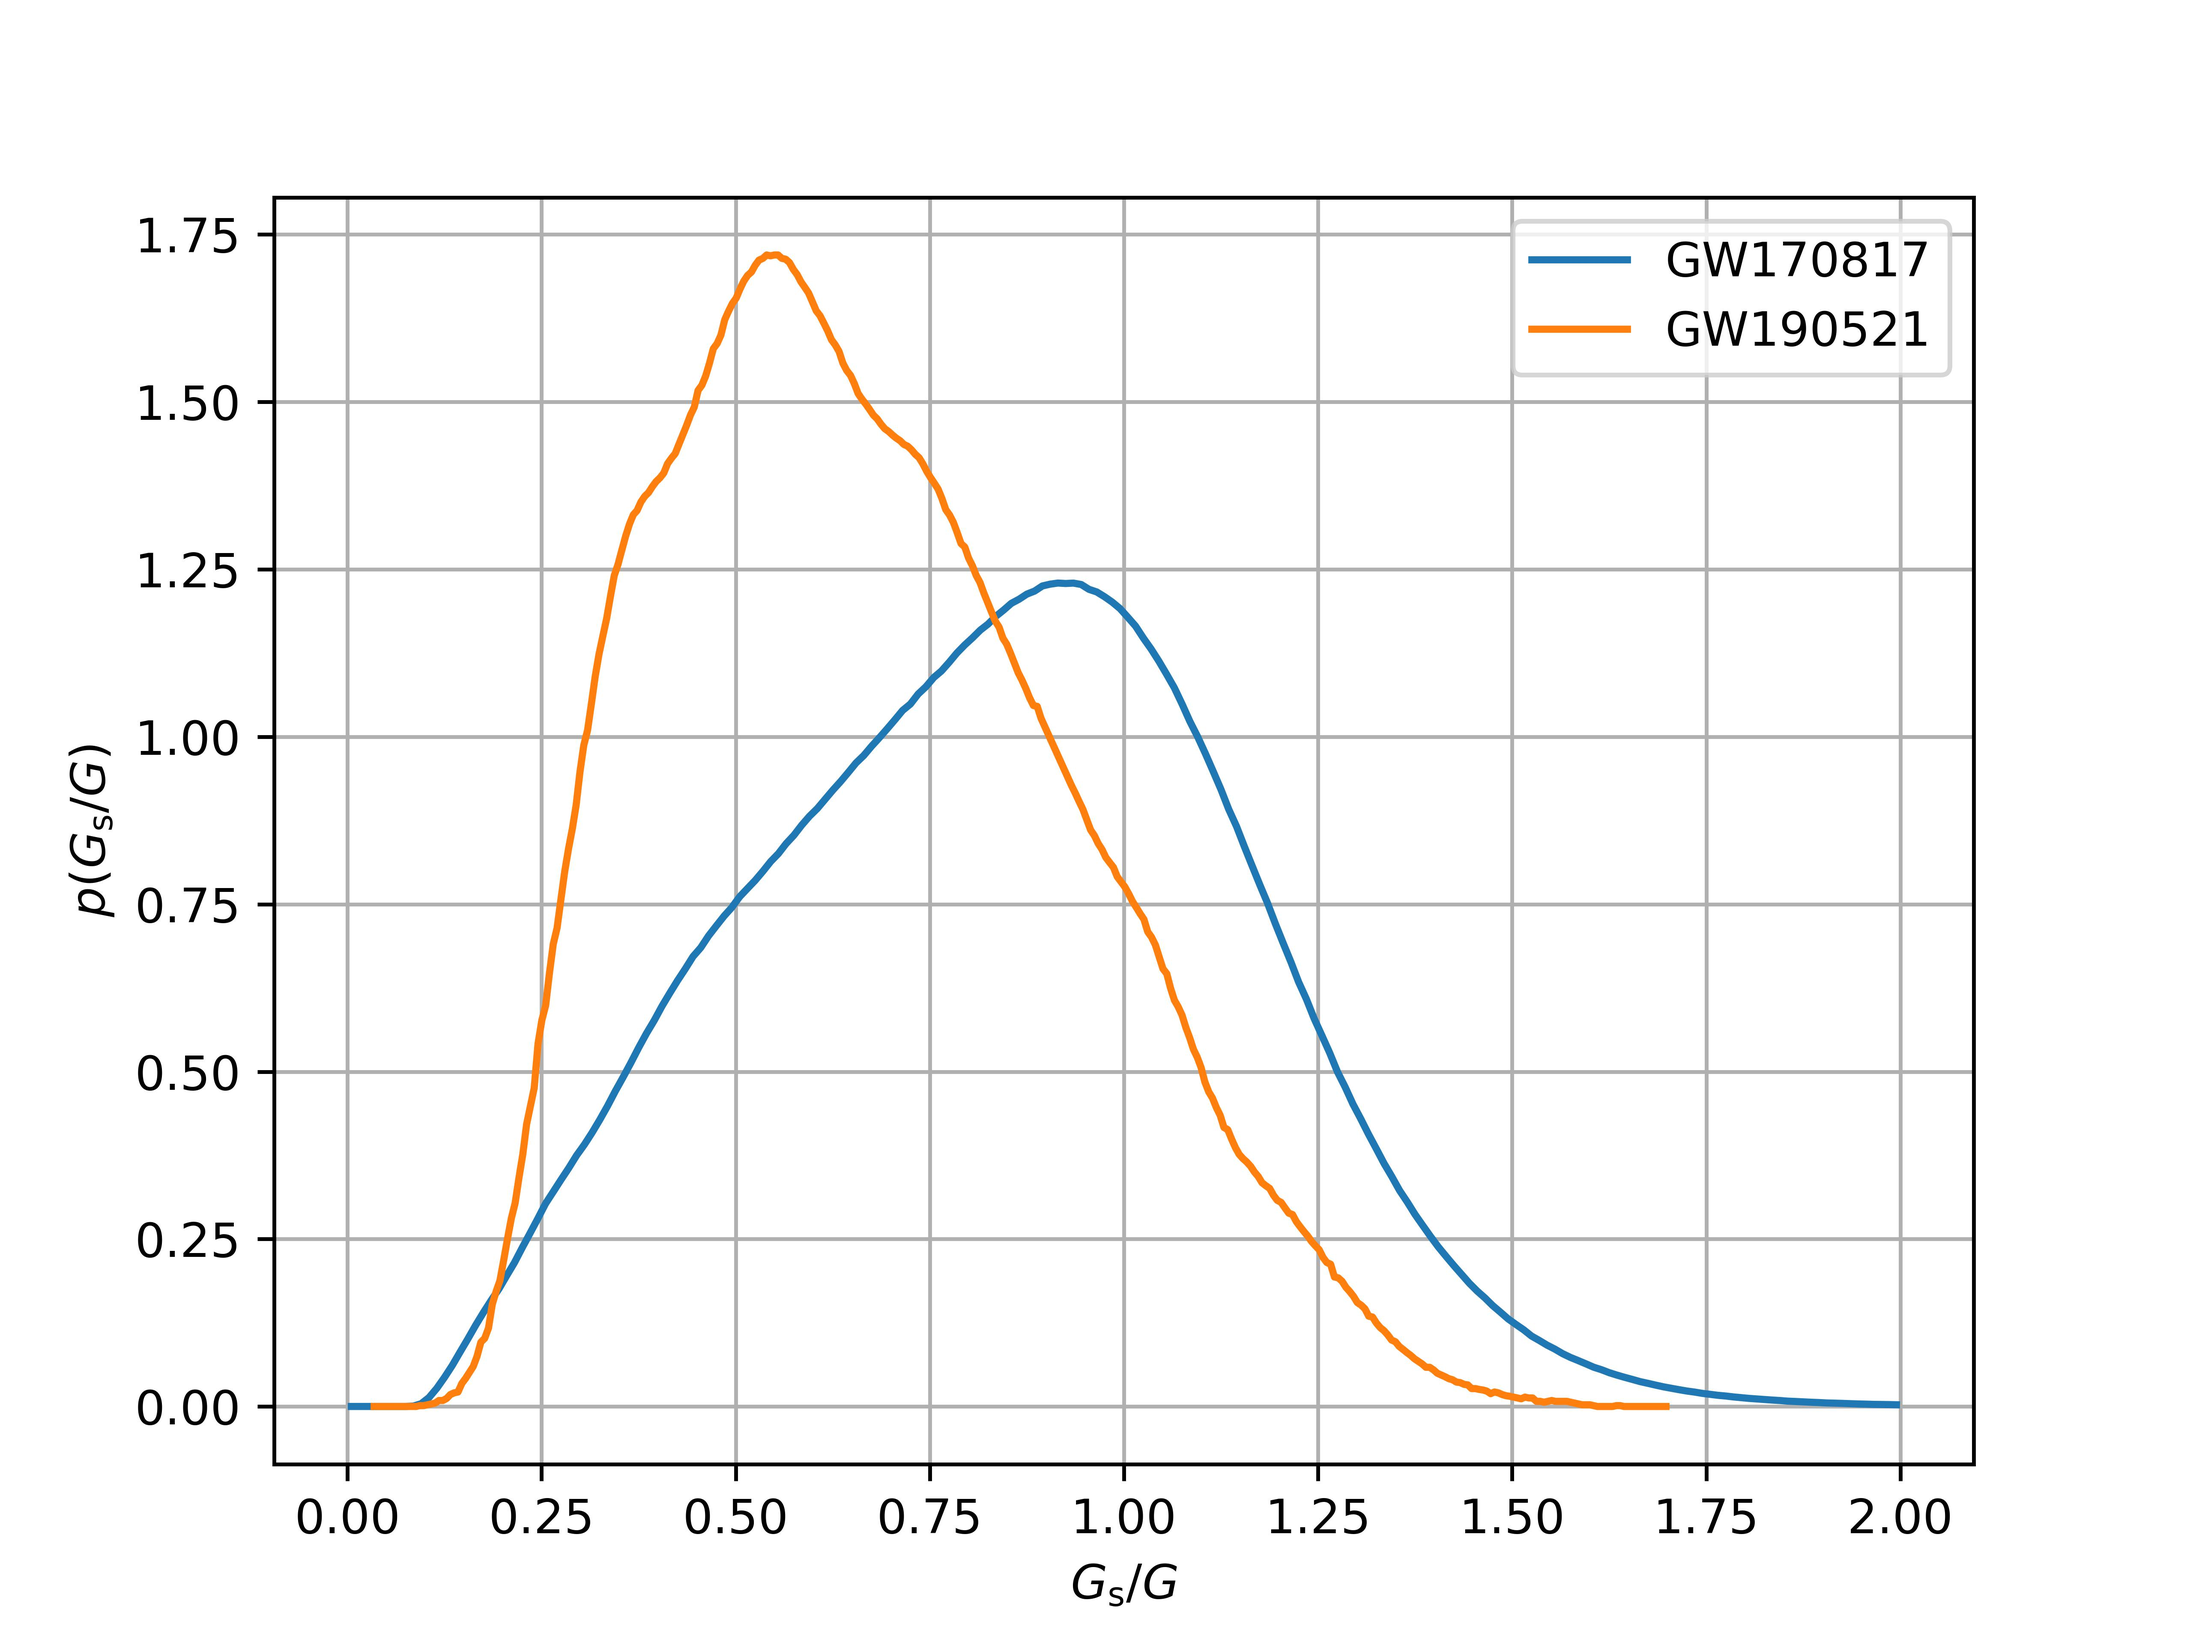
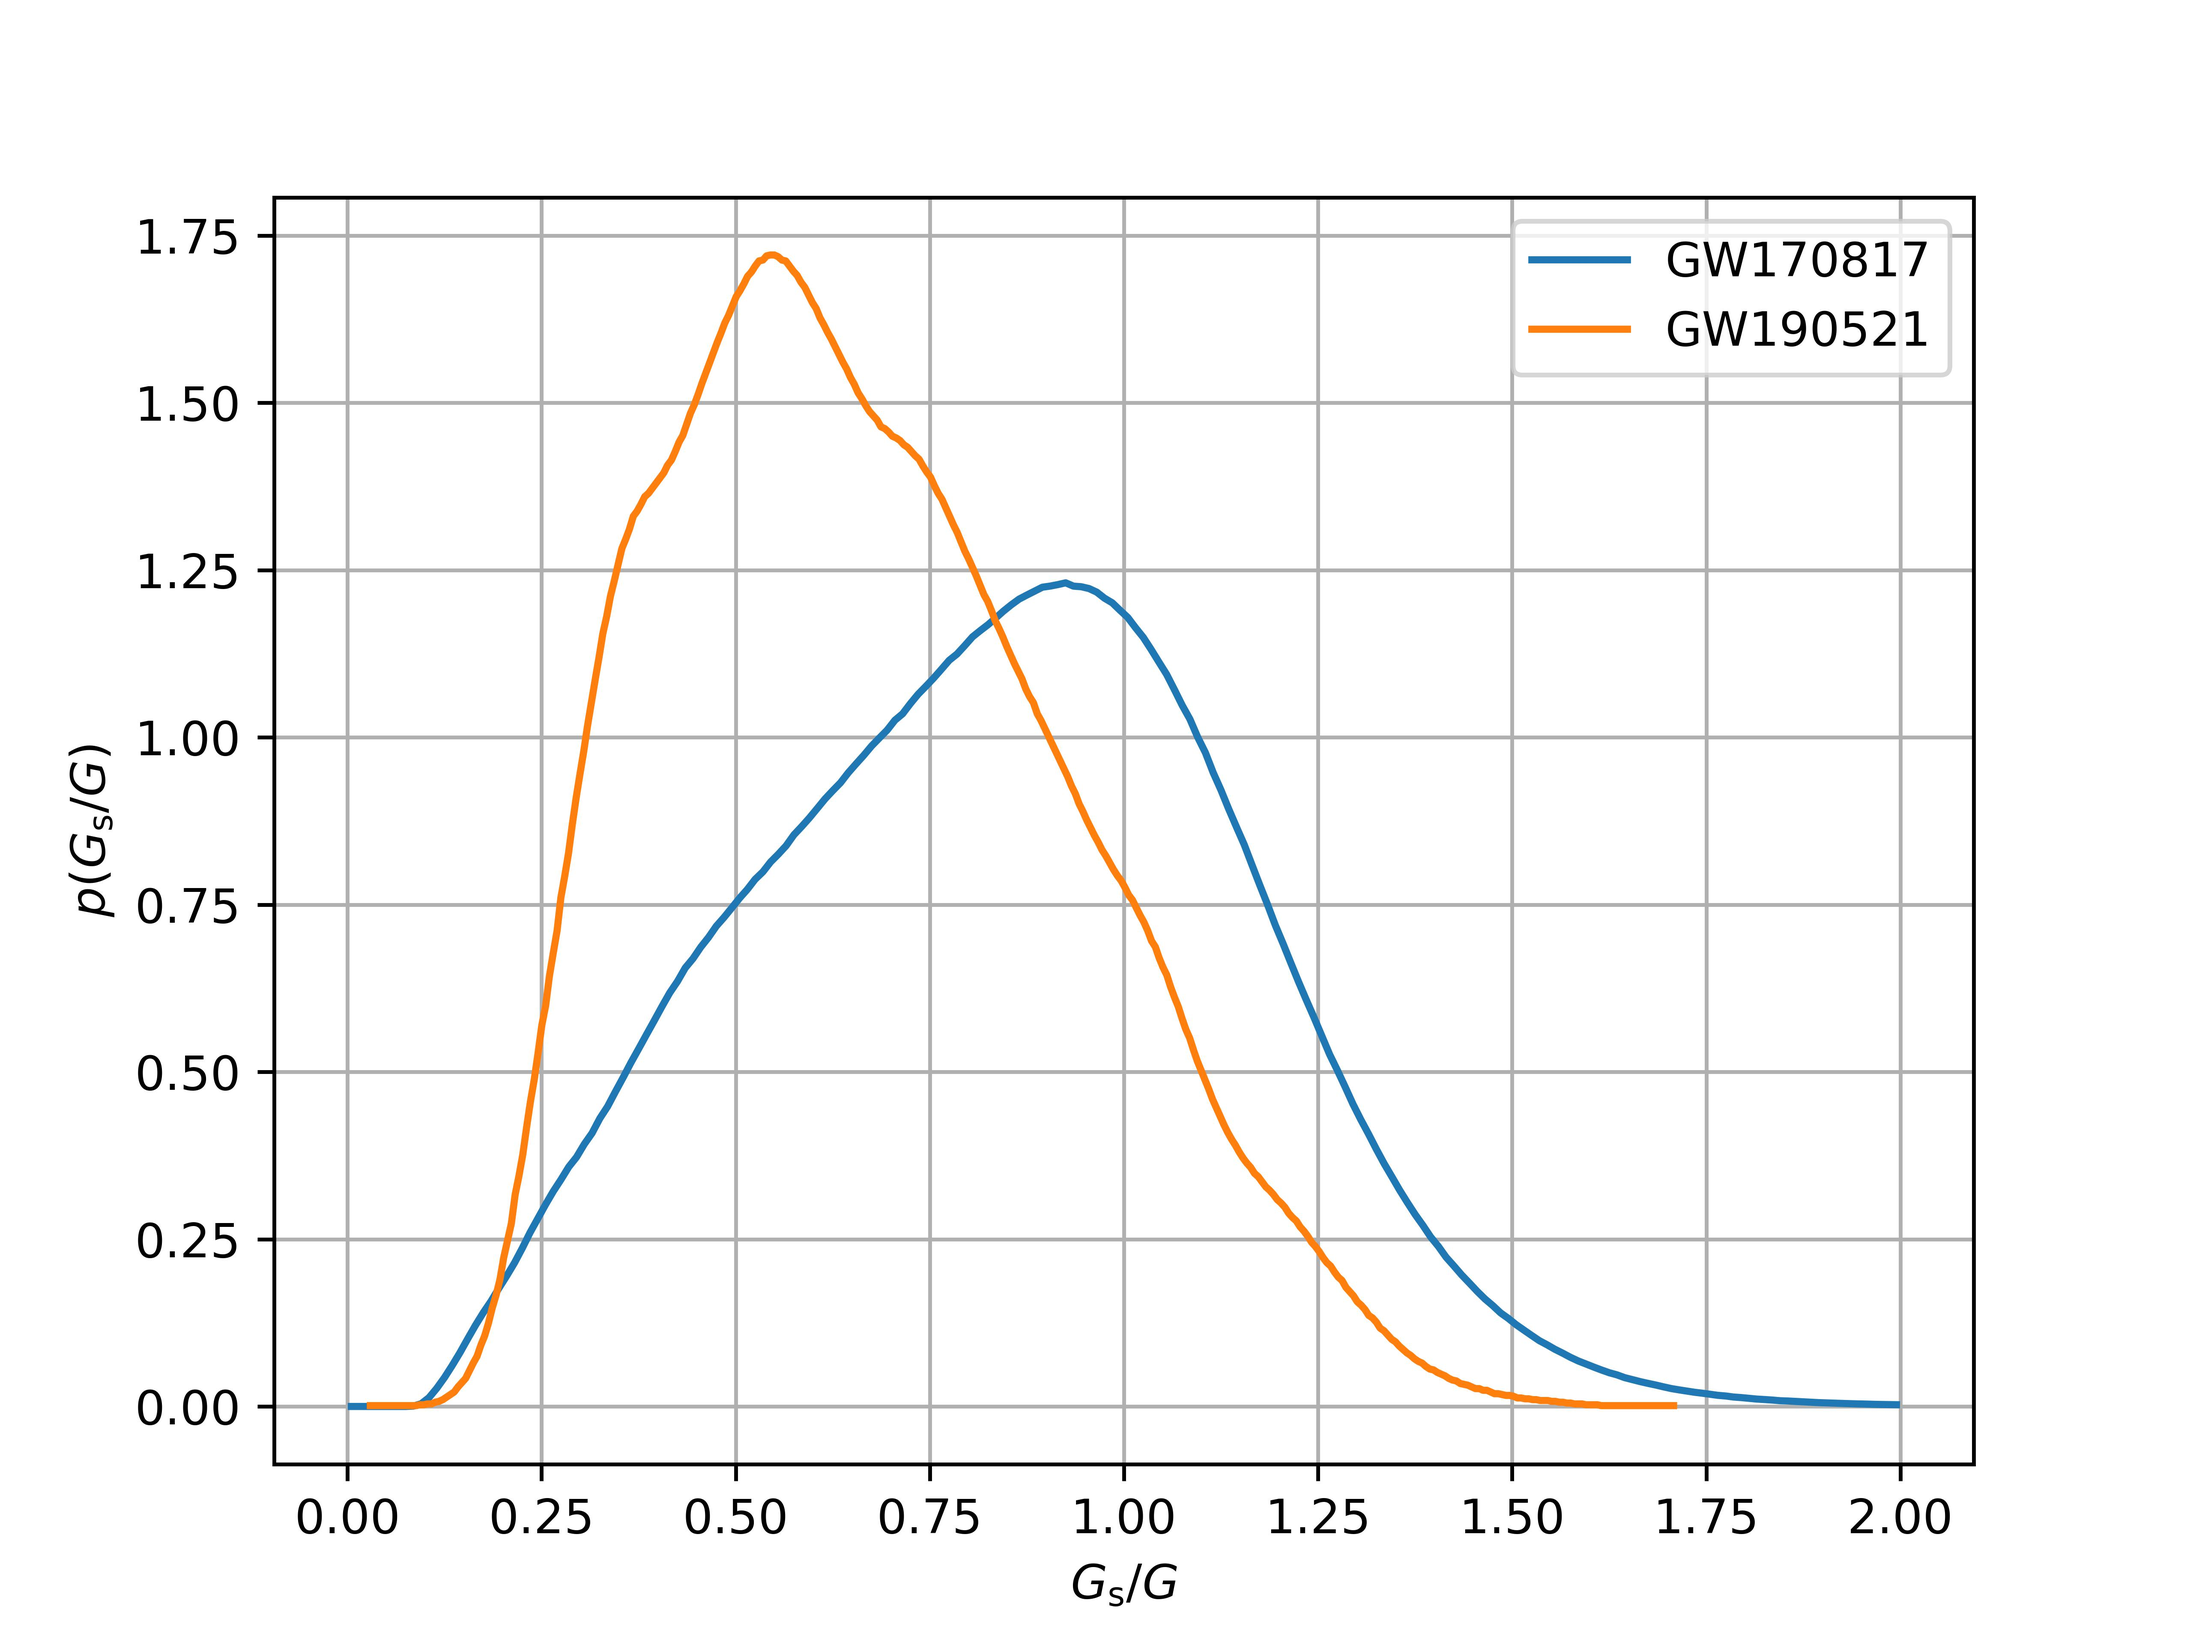
smooth GW190521 plot

Changed region(s): [[0.4375, 0.3438, 0.5, 0.375]]

diff --git a/plot.py b/plot.py
@@ -23,14 +23,14 @@ for x in range(500):
     for y in range(780):
         if (max(abs(img[y,x,0]-31),
                 abs(img[y,x,1]-119),
-                abs(img[y,x,2]-180))<= 10):
+                abs(img[y,x,2]-180)) <= 32):
             ys.append(y)
     if (ys != []):
         sample.append([x, np.array(ys).mean()])
 x, y = np.array(sample)[:,0], np.array(sample)[:,1]
-x, y = (x-100)/((426-100)/(4-0)), (y-699)/((699-11)/(0-0.7))
-plt.plot(x/2.5, y*2.5)
-
+x, y = (x-100)/((426-100)/(4-0))/2.5, (y-699)/((699-11)/(0-0.7))*2.5
+print(1.8/2.5, (1.8-0.1)/2.5, (1.8+1.1)/2.5)
+plt.plot(x, y)
 plt.xlabel('${G_\\mathrm{s}/G}$')
 plt.ylabel('$p({G_\\mathrm{s}/G})$')
 plt.legend(('GW170817', 'GW190521'))
